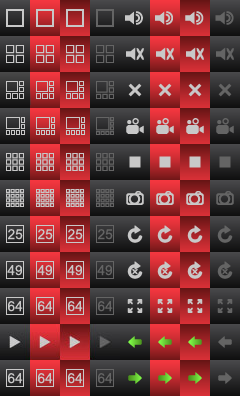
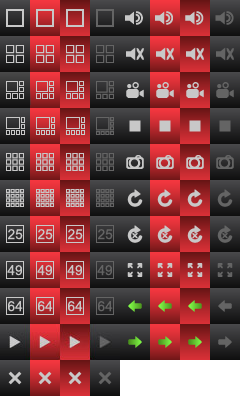
设置IP调试1
git-svn-id: svn://192.168.2.188/qtcms@982 894f9759-fa2a-45cf-9159-0a04a166245e

diff --git a/web/index.html b/web/index.html
@@ -156,15 +156,15 @@
 					</ul>
 				</li>
 				<li style="width:40px;text-align:center; background:0; line-height:36px; color:#FFF;" id="nowWinMod"></li>
-				<li class="hover" onclick="preNextPage(1)" style="background-position: -120px -324px;" title="上一页"></li>
-				<li class="hover" onclick="preNextPage(0)" style="background-position: -120px -360px" title="下一页"></li>
-				<li class="hover" onclick="closeCurrWind();" style="background-position: -120px -72px;" title="关闭当前窗口"></li>
+				<li class="hover" onclick="preNextPage(1)" style="background-position: -120px -288px;" title="上一页"></li>
+				<li class="hover" onclick="preNextPage(0)" style="background-position: -120px -324px" title="下一页"></li>
+				<li class="toggle hover" style="background-position: 0 -324px;" onclick="openCloseAll();" title="全部打开/关闭"></li>
 				<!-- <li class="hover" style="background-position: -120px -108px;" onclick="StopRecord();" title="暂停录像"></li> -->
-				<li class="toggle hover" style="background-position: -120px -108px;" onclick="Record();" id="Record" title="录像"></li>
-				<li class="hover" style="background-position: -120px -180px;" title="截屏"></li>
-				<li class="toggle hover" style="background-position: -120px -216px;" title="轮循"></li>
+				<li class="toggle hover" style="background-position: -120px -72px;" onclick="Record();" id="Record" title="录像"></li>
+				<li class="hover" style="background-position: -120px -144px;" title="截屏"></li>
+				<li class="toggle hover" style="background-position: -120px -180px;" title="轮循"></li>
 				<!-- <li class="hover" style="background-position: -120px -252px;"></li> -->
-				<li class="hover" style="background-position: -120px -288px;" title="全屏"></li>
+				<li class="hover" style="background-position: -120px -252px;" title="全屏"></li>
 				<li class="toggle hover" title="声音" style="background-position: -120px 0"></li>
 				<li class="hover" style="background:0; width:70px;"><p style="width:36px; background:#00B1FF;z-index:1;"></p><p style=""></p></li>
 			</ul>

diff --git a/web/js/playback.js b/web/js/playback.js
@@ -81,7 +81,6 @@ var	nViewNum = 0,
 			}
 			if(oSelected.length>4){
 				oSelected.shift().prop('checked',false);
-				alert(oSelected.length);
 			}
 		})
 
@@ -210,13 +209,13 @@ var	nViewNum = 0,
 		return  date+' '+returnTime((left-81)/(X2-81)*24*3600);
 	}
 	function playAction(str){
-		var show ='';
 		var obj = bool ? oPlaybackLocl : oPlayBack; //回放插件对象
 		dragStopMove();
-			if(bool && (str == 'GroupSpeedFast' || str == 'GroupSpeedSlow')){	
-				obj[str](speed);
+			if(bool && (str == 'GroupSpeedFast' || str == 'GroupSpeedSlow')){
+				obj[str](nowSpeed);
+			}else{
+				obj[str]();
 			}
-			obj[str]();
 		dragStartMove();
 	}
 	var nowSpeed = 1;
@@ -231,15 +230,12 @@ var	nViewNum = 0,
 			nowSpeed = nowSpeed < (1/max) ? (1/max) : nowSpeed;
 		}
 		if(nowSpeed == 1){
-			alert(nowSpeed);
-			playAction('GroupSpeedSlow');
+			playAction('GroupSpeedNormal');
 			show='1X';
 		}else if(nowSpeed<1){
-			alert(nowSpeed+'--');
 			playAction('GroupSpeedSlow');
 			show='1/'+(1/nowSpeed)+'X';
 		}else{
-			alert(nowSpeed+'++');
 			playAction('GroupSpeedFast');
 			show=nowSpeed+'X';
 		}
@@ -314,7 +310,7 @@ var	nViewNum = 0,
 		drag_timer = setInterval(function(){
 			var nowPlayd = parseInt(oPlay.GetNowPlayedTime());
 			var left = initleft+p*nowPlayd;
-			show(bool+'//oxcoPlay:'+$(oPlay).attr('id')+'//初始左边距:'+initleft+'像素//当前以播放时间:'+nowPlayd+'秒//当前走过:'+p*nowPlayd+'像素//当前刷新速度:'+SynTimeUnits+'毫秒//速度'+nowSpeed);
+			/*show(bool+'//oxcoPlay:'+$(oPlay).attr('id')+'//初始左边距:'+initleft+'像素//当前以播放时间:'+nowPlayd+'秒//当前走过:'+p*nowPlayd+'像素//当前刷新速度:'+SynTimeUnits+'毫秒//速度'+nowSpeed);*/
 			if(left >= max-2){ 
 				left=max-2;
 				dragStopMove();

diff --git a/web/js/deviceset.js b/web/js/deviceset.js
@@ -696,7 +696,10 @@ function cleanDev(){  //清空设备
 	$('#removedeviceall_ID').val(arr.join(','))
 }
 function setIP(){ //设置IP
-	showdata('Allocation','设置IP');
+	var oData = $('tbody.synCheckboxClick tr.sel').data('data')
+	if(!oSearchOcx.SetNetworkInfo(oData.SearchDeviceId_ID,$('#SearchIP_ID').val(),$('#SearchMask_ID').val(),$('#SearchGateway_ID').val(),oData.SearchMac_ID,$('#SearchHttpport_ID').val(),'admin','')){
+		alert('IP设置失败');
+	}
 }
 //devinfo
 function disksSelectAll(){

diff --git a/web/js/public.js b/web/js/public.js
@@ -387,7 +387,7 @@ function showdata(id,type){  //显示表单下有ID的元素的val值
 	//return false;
 	var submit = $('#'+type).find('.confirm:visible').attr('id');
 	var str =submit+'/'+id +'/';
-	$('#'+type).find('[id]').each(function(){ 
+	$('#'+type).find('input[id]').each(function(){ 
 		str += $(this).attr('id')+':'+$(this).val()+'/';
 	})
 	show(str);

diff --git a/web/css/play_back.css b/web/css/play_back.css
@@ -1,5 +1,5 @@
 body,h3,h4,h5,li,ul,p,a,input{margin: 0; padding: 0; list-style: none;text-decoration: none;}
-body{background:#323232; font-family:Arial, Helvetica, sans-serif;color: #B4B4B4; -webkit-user-select:none; }
+body{background:#323232; font-family:Arial, Helvetica, sans-serif;color: #B4B4B4; /* -webkit-user-select:none; */ }
 #top{
 	height: 78px;
 }

diff --git a/web/device.html b/web/device.html
@@ -287,7 +287,7 @@
 							<td>网关</td>
 							<td><input type="text" id="SearchGateway_ID" /></td>
 							<td>MAC地址</td>
-							<td><input type="text" id="SearchMac_ID" /></td>
+							<td><input type="text" id="SearchMac_ID" readonly="readonly" /></td>
 						</tr>
 						<tr>
 							<td>端口</td>

diff --git a/web/js/ocxfunction.js b/web/js/ocxfunction.js
@@ -200,7 +200,8 @@ var oCommonLibrary,
 	}
 
 	function RemoveDeviceAllSuccess(data){
-		alert(data);
+		$('#dev_'+data.deviceid).parent('li').remove();
+		$('ul.filetree').treeview();
 	}
 
 	function AddDeviceDoubleSuccess(data){  //添加多个设备
